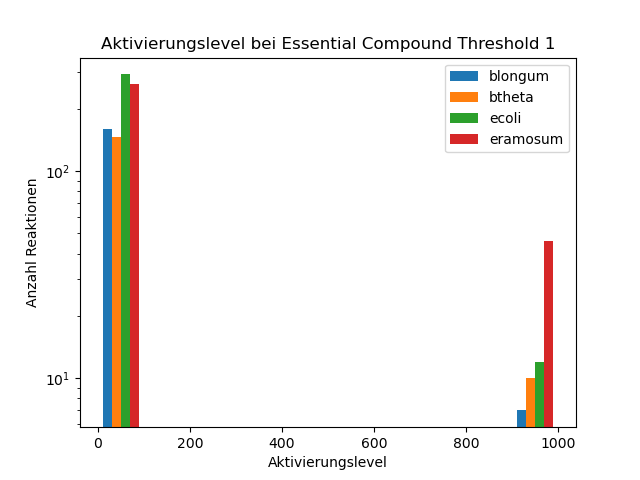
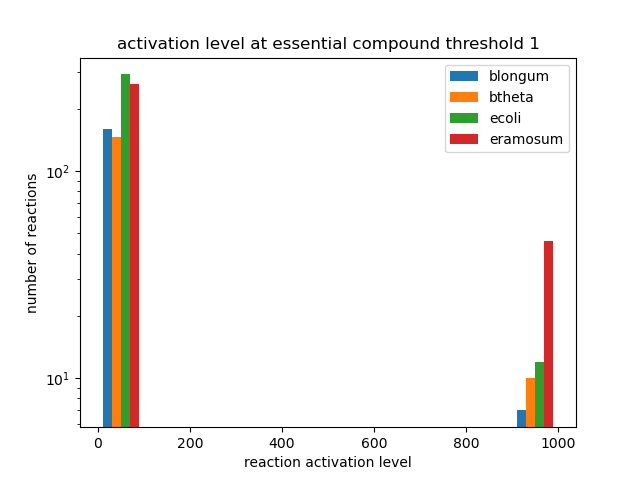
added english axis

Changed region(s): [[0.1562, 0.0625, 0.8438, 0.125], [0.375, 0.9375, 0.6562, 1.0], [0.0312, 0.3438, 0.0625, 0.6562]]

diff --git a/wp2_script/04_flux_variation.py b/wp2_script/04_flux_variation.py
@@ -152,9 +152,9 @@ def main():
             legend.append(organism)
         plt.hist(his_data, bins = 10, log=True)
         plt.legend(legend)
-        plt.ylabel("Anzahl Reaktionen")
-        plt.xlabel("Aktivierungslevel")
-        plt.title(f"Aktivierungslevel bei Essential Compound Threshold {threshold}")
+        plt.ylabel("number of reactions")
+        plt.xlabel("reaction activation level")
+        plt.title(f"activation level at essential compound threshold {threshold}")
         plt.savefig(f"{results_dir}activation_level_by_theshold_{threshold}.png")
         plt.close()
 
